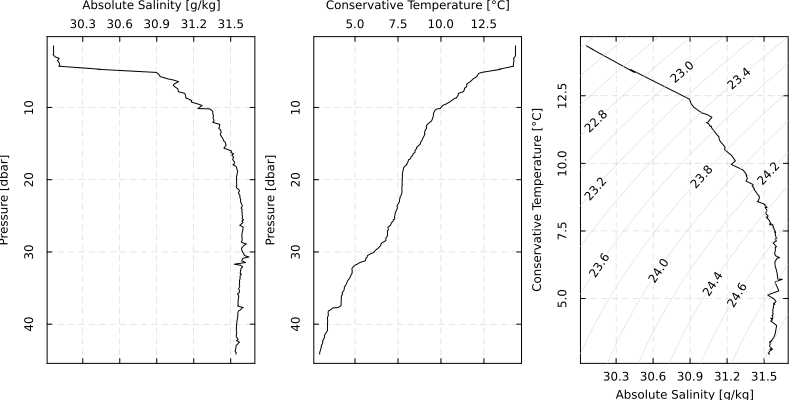
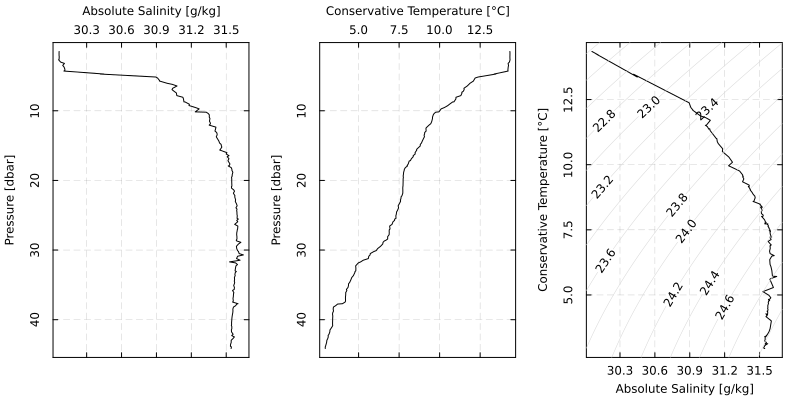
margin in README example

diff --git a/README.md b/README.md
@@ -36,14 +36,14 @@ using Pkg ; Pkg.add(url="https://github.com/dankelley/OceanAnalysis.jl", rev="de
 
 ```julia
 # Read a built-in CTD file, and plot a profile of Absolute Salinity
-using OceanAnalysis, Plots
+using OceanAnalysis, Plots, Measures
 pkgdir = dirname(dirname(pathof(OceanAnalysis)))
 filename = joinpath(pkgdir, "data", "ctd.cnv")
 ctd = readCtdCNV(filename, !true)
 p1 = plotProfile(ctd, "SA")
 p2 = plotProfile(ctd, "CT")
 p3 = plotTS(ctd)
-plot(p1, p2, p3, layout=(1, 3), size=(800, 400))
+plot(p1, p2, p3, layout=(1, 3), size=(800, 400), margin = 0.25cm)
 ```
 
 ![Example plot](example.png)
